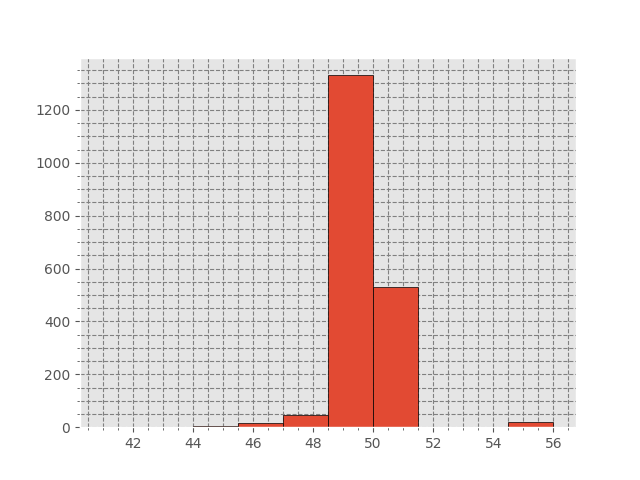
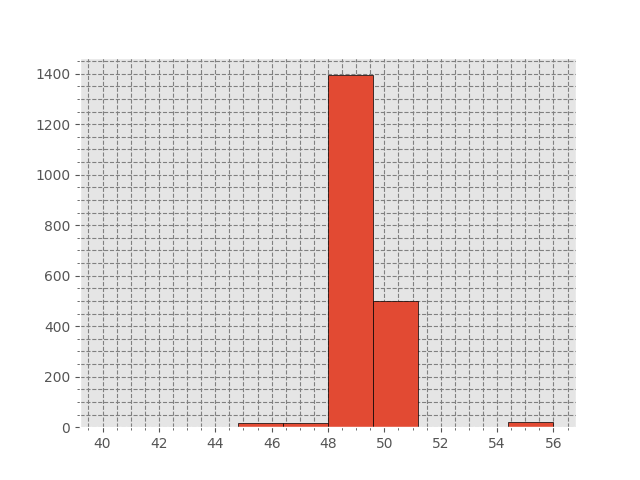
new plots

diff --git a/experiment2.py b/experiment2.py
@@ -14,6 +14,9 @@ if __name__ == '__main__':
 
     # Basin [' SI' ' NA' ' EP' ' SP' ' WP' ' NI' ' SA']
     data = fixed_df[fixed_df['Basin'] == ' SP'].groupby('Season')['Serial_Num'].nunique()
+    print(fixed_df.head())
+    print(data.head())
+    print(data.tail())
 
     stormsYears = data.index
     stormsNumbers = data.values
@@ -64,6 +67,21 @@ if __name__ == '__main__':
     strmsM = pm.MCMC(storms_model)
     strmsM.sample(iter=40000, burn=1000, thin=20)
 
+    plt.hist(strmsM.trace('late_mean')[:], edgecolor="k")
+    general.set_grid_to_plot()
+    plt.savefig(general.folderPath2 + "exp2_late_mean.png")
+    plt.clf()
+
+    plt.hist(strmsM.trace('early_mean')[:], edgecolor="k")
+    general.set_grid_to_plot()
+    plt.savefig(general.folderPath2 + "exp2_early_mean.png")
+    plt.clf()
+
+    plt.hist(strmsM.trace('switchpoint')[:], edgecolor="k")
+    general.set_grid_to_plot()
+    plt.savefig(general.folderPath2 + "exp2_switchpoint.png")
+    plt.clf()
+
     switchpoint_samples = strmsM.trace('switchpoint')[:]
     early_mean_samples = strmsM.trace('early_mean')[:]
     late_mean_samples = strmsM.trace('late_mean')[:]
@@ -110,3 +128,27 @@ if __name__ == '__main__':
     plt.clf()
 
     pm.Matplot.plot(strmsM)
+    plt.clf()
+
+    yp = year0 + strmsM.trace('switchpoint')[:].mean()
+    em = strmsM.trace('early_mean')[:].mean()
+    lm = strmsM.trace('late_mean')[:].mean()
+    print((yp, em, lm))
+
+    plt.plot(stormsYears, stormsNumbers, '-ok')
+    plt.axvline(yp, color='k', ls='--')
+    plt.plot([year0, yp], [em, em], '-b', lw=3)
+    plt.plot([yp, year1], [lm, lm], '-r', lw=3)
+    plt.xlim(year0, year1)
+
+    # for python 2.7
+    # xLabel = "Рік".decode('utf8')
+    # yLabel = "Кількість штормів".decode('utf8')
+
+    # for python 3.5
+    xLabel = "Рік"
+    yLabel = "Кількість штормів"
+
+    general.set_grid_to_plot()
+    plt.savefig(general.folderPath2 + "exp2_rate.png")
+    plt.clf()
